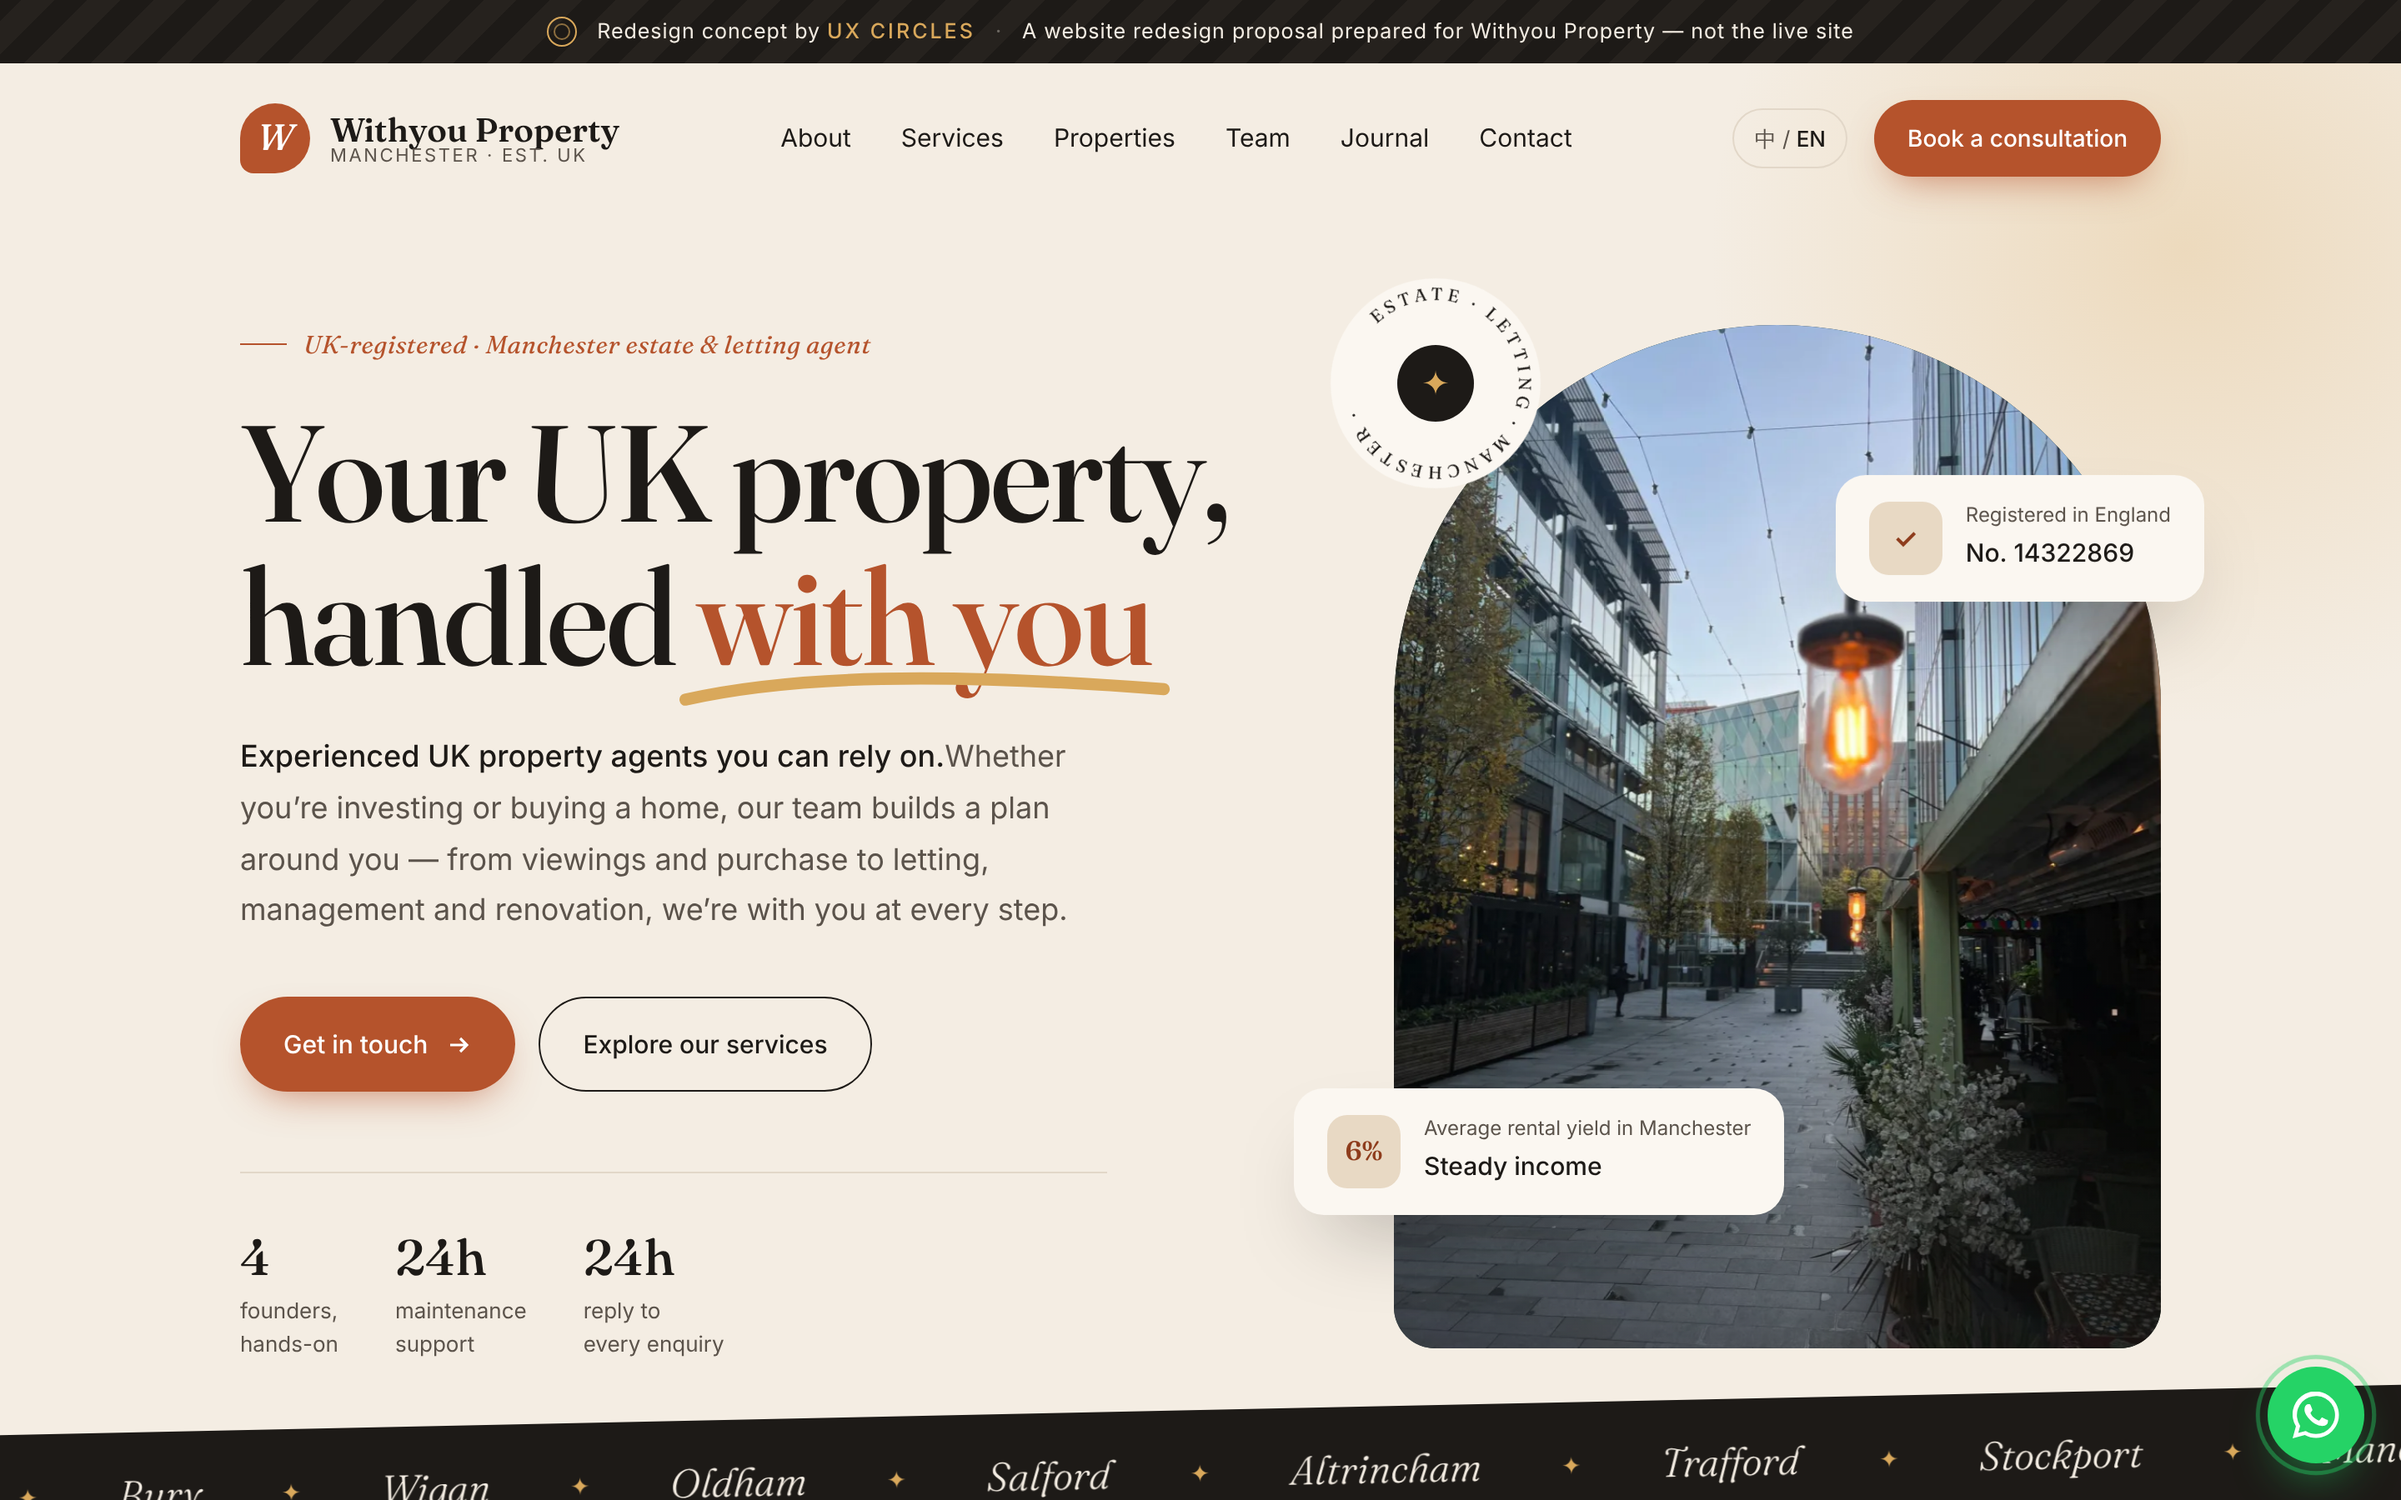
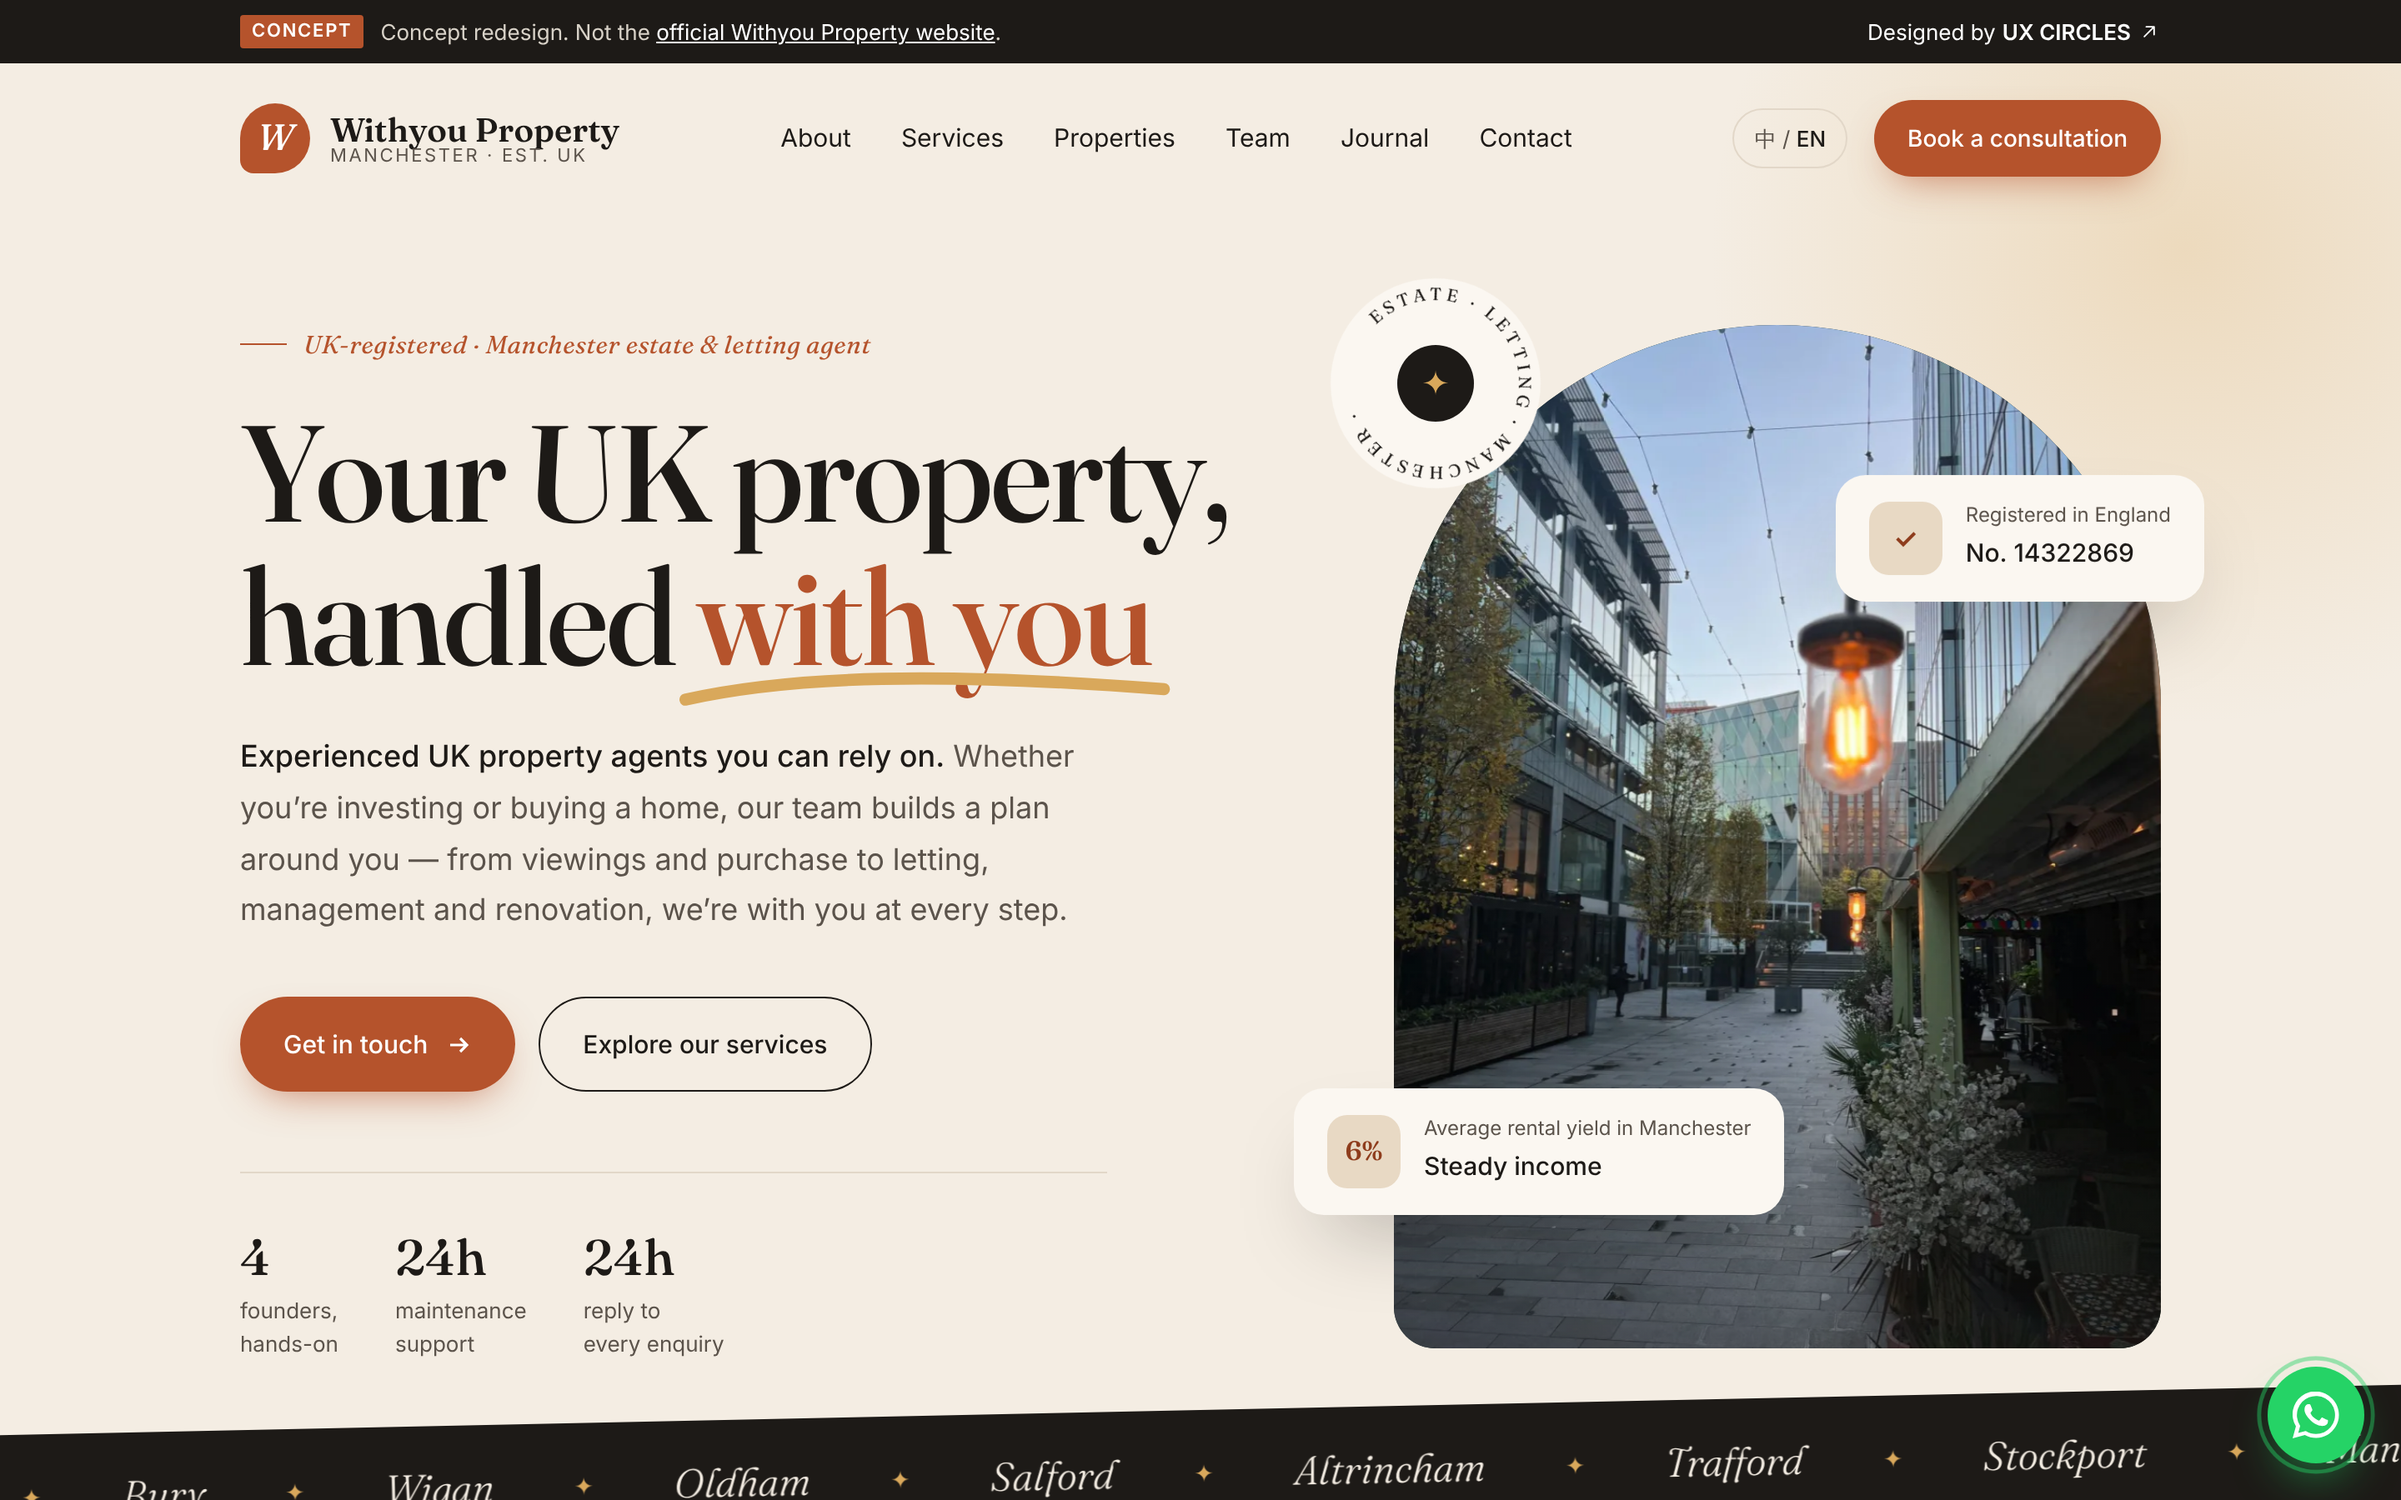
Match UX Circles concept bar used on other concept sites
Replace the custom fixed stripe with the standard concept-bar: Concept
tag, link to the official site, 'Designed by UX CIRCLES' linking to
ux-circles.com/web, plus an unofficial-concept note in the footer.

Claude-Session: https://claude.ai/code/session_012xdZwiKkQBZXTXgCLxgR89

diff --git a/index.html b/index.html
@@ -336,20 +336,30 @@ footer{padding:60px 0 40px;font-size:14px;color:var(--ink-soft)}
   .mono{width:120px;margin-bottom:18px}
 }
 
-/* UX Circles proposal stripe */
+/* UX Circles concept bar (same pattern as other UX Circles concepts) */
 :root{--stripe:38px}
-.uxc{position:fixed;inset:0 0 auto 0;height:var(--stripe);z-index:70;background:repeating-linear-gradient(-45deg,#1D1A17 0 14px,#26221E 14px 28px);color:#F4EDE3;display:flex;align-items:center;justify-content:center;gap:12px;font-size:12.5px;letter-spacing:.04em;padding:0 16px;white-space:nowrap;overflow:hidden}
-.uxc .dot{width:18px;height:18px;border-radius:50%;border:1.5px solid var(--gold);position:relative;flex:0 0 18px}
-.uxc .dot::after{content:"";position:absolute;inset:3px;border-radius:50%;border:1.5px solid var(--gold);opacity:.6}
-.uxc b{font-weight:500;color:var(--gold);letter-spacing:.12em;text-transform:uppercase}
-.uxc .sep{opacity:.35}
+.concept-bar{position:absolute;inset:0 0 auto 0;z-index:70;background:var(--ink);color:#d8d2c8;font-size:13px}
+.concept-inner{display:flex;align-items:center;justify-content:space-between;gap:12px;min-height:var(--stripe)}
+.concept-inner p{margin:0;display:flex;align-items:center;gap:10px;line-height:1.4}
+.concept-inner a{color:#fff;display:inline-flex;align-items:center;gap:4px;text-decoration:none;white-space:nowrap}
+.concept-inner a svg{width:14px;height:14px}
+.concept-long a{text-decoration:underline}
+.concept-tag{background:var(--brick);color:#fff;font-weight:700;font-size:11px;letter-spacing:.08em;text-transform:uppercase;padding:2px 7px;border-radius:2px}
 header{top:var(--stripe)}
+header.scrolled{top:0}
 .hero{padding-top:calc(150px + var(--stripe))}
-@media (max-width:640px){.uxc .long{display:none}.hero{padding-top:calc(120px + var(--stripe))}}
+.concept-note a{text-decoration:underline}
+@media (max-width:640px){.concept-long,.concept-by{display:none}.hero{padding-top:calc(120px + var(--stripe))}}
+@media print{.concept-bar{display:none}}
 </style>
 </head>
 <body>
-<div class="uxc" role="note"><span class="dot" aria-hidden="true"></span><span>Redesign concept by <b>UX Circles</b></span><span class="sep long">·</span><span class="long">此為 UX Circles 為 Withyou Property 準備的網站重新設計提案，並非正式網站</span></div>
+<div class="concept-bar" role="note">
+  <div class="wrap concept-inner">
+    <p><span class="concept-tag">概念</span><span class="concept-long">改版概念設計，並非 <a href="https://withyouproperty.uk/" target="_blank" rel="noopener">Withyou Property 官方網站</a>。</span></p>
+    <a href="https://ux-circles.com/web" target="_blank" rel="noopener"><span class="concept-by">設計：</span><strong>UX CIRCLES</strong> <svg viewBox="0 0 24 24" fill="none" stroke="currentColor" stroke-width="1.6" stroke-linecap="round" stroke-linejoin="round" aria-hidden="true"><path d="M7 17 17 7M9 7h8v8"/></svg></a>
+  </div>
+</div>
 
 <header id="top">
   <div class="wrap nav">
@@ -731,6 +741,7 @@ header{top:var(--stripe)}
       <div><h5>社交媒體</h5><ul><li><a href="https://www.instagram.com/withyou_property/" target="_blank" rel="noopener">Instagram</a></li><li><a href="https://www.facebook.com/withyoupropertylimited" target="_blank" rel="noopener">Facebook</a></li><li><a href="https://www.youtube.com/@WithyouPropertyLimited" target="_blank" rel="noopener">YouTube</a></li></ul></div>
     </div>
     <div class="legal">
+      <span class="concept-note" style="flex-basis:100%">非官方改版概念，設計： <a href="https://ux-circles.com/web" target="_blank" rel="noopener">UX CIRCLES</a></span>
       <span>© <span id="yr">2026</span> Withyou Property Limited · 英格蘭註冊公司，公司號碼 14322869</span>
       <span>樓盤相片為示意圖，來源 <a href="https://www.pexels.com" target="_blank" rel="noopener">Pexels</a> · Manchester Estate &amp; Letting Agent</span>
     </div>

diff --git a/en/index.html b/en/index.html
@@ -336,20 +336,30 @@ footer{padding:60px 0 40px;font-size:14px;color:var(--ink-soft)}
   .mono{width:120px;margin-bottom:18px}
 }
 
-/* UX Circles proposal stripe */
+/* UX Circles concept bar (same pattern as other UX Circles concepts) */
 :root{--stripe:38px}
-.uxc{position:fixed;inset:0 0 auto 0;height:var(--stripe);z-index:70;background:repeating-linear-gradient(-45deg,#1D1A17 0 14px,#26221E 14px 28px);color:#F4EDE3;display:flex;align-items:center;justify-content:center;gap:12px;font-size:12.5px;letter-spacing:.04em;padding:0 16px;white-space:nowrap;overflow:hidden}
-.uxc .dot{width:18px;height:18px;border-radius:50%;border:1.5px solid var(--gold);position:relative;flex:0 0 18px}
-.uxc .dot::after{content:"";position:absolute;inset:3px;border-radius:50%;border:1.5px solid var(--gold);opacity:.6}
-.uxc b{font-weight:500;color:var(--gold);letter-spacing:.12em;text-transform:uppercase}
-.uxc .sep{opacity:.35}
+.concept-bar{position:absolute;inset:0 0 auto 0;z-index:70;background:var(--ink);color:#d8d2c8;font-size:13px}
+.concept-inner{display:flex;align-items:center;justify-content:space-between;gap:12px;min-height:var(--stripe)}
+.concept-inner p{margin:0;display:flex;align-items:center;gap:10px;line-height:1.4}
+.concept-inner a{color:#fff;display:inline-flex;align-items:center;gap:4px;text-decoration:none;white-space:nowrap}
+.concept-inner a svg{width:14px;height:14px}
+.concept-long a{text-decoration:underline}
+.concept-tag{background:var(--brick);color:#fff;font-weight:700;font-size:11px;letter-spacing:.08em;text-transform:uppercase;padding:2px 7px;border-radius:2px}
 header{top:var(--stripe)}
+header.scrolled{top:0}
 .hero{padding-top:calc(150px + var(--stripe))}
-@media (max-width:640px){.uxc .long{display:none}.hero{padding-top:calc(120px + var(--stripe))}}
+.concept-note a{text-decoration:underline}
+@media (max-width:640px){.concept-long,.concept-by{display:none}.hero{padding-top:calc(120px + var(--stripe))}}
+@media print{.concept-bar{display:none}}
 </style>
 </head>
 <body>
-<div class="uxc" role="note"><span class="dot" aria-hidden="true"></span><span>Redesign concept by <b>UX Circles</b></span><span class="sep long">·</span><span class="long">A website redesign proposal prepared for Withyou Property — not the live site</span></div>
+<div class="concept-bar" role="note">
+  <div class="wrap concept-inner">
+    <p><span class="concept-tag">Concept</span><span class="concept-long">Concept redesign. Not the <a href="https://withyouproperty.uk/" target="_blank" rel="noopener">official Withyou Property website</a>.</span></p>
+    <a href="https://ux-circles.com/web" target="_blank" rel="noopener"><span class="concept-by">Designed by </span><strong>UX CIRCLES</strong> <svg viewBox="0 0 24 24" fill="none" stroke="currentColor" stroke-width="1.6" stroke-linecap="round" stroke-linejoin="round" aria-hidden="true"><path d="M7 17 17 7M9 7h8v8"/></svg></a>
+  </div>
+</div>
 
 <header id="top">
   <div class="wrap nav">
@@ -731,6 +741,7 @@ header{top:var(--stripe)}
       <div><h5>Social</h5><ul><li><a href="https://www.instagram.com/withyou_property/" target="_blank" rel="noopener">Instagram</a></li><li><a href="https://www.facebook.com/withyoupropertylimited" target="_blank" rel="noopener">Facebook</a></li><li><a href="https://www.youtube.com/@WithyouPropertyLimited" target="_blank" rel="noopener">YouTube</a></li></ul></div>
     </div>
     <div class="legal">
+      <span class="concept-note" style="flex-basis:100%">Unofficial redesign concept by <a href="https://ux-circles.com/web" target="_blank" rel="noopener">UX CIRCLES</a></span>
       <span>© <span id="yr">2026</span> Withyou Property Limited · Registered in England, company no. 14322869</span>
       <span>Property photos are illustrative, via <a href="https://www.pexels.com" target="_blank" rel="noopener">Pexels</a> · Manchester Estate &amp; Letting Agent</span>
     </div>
